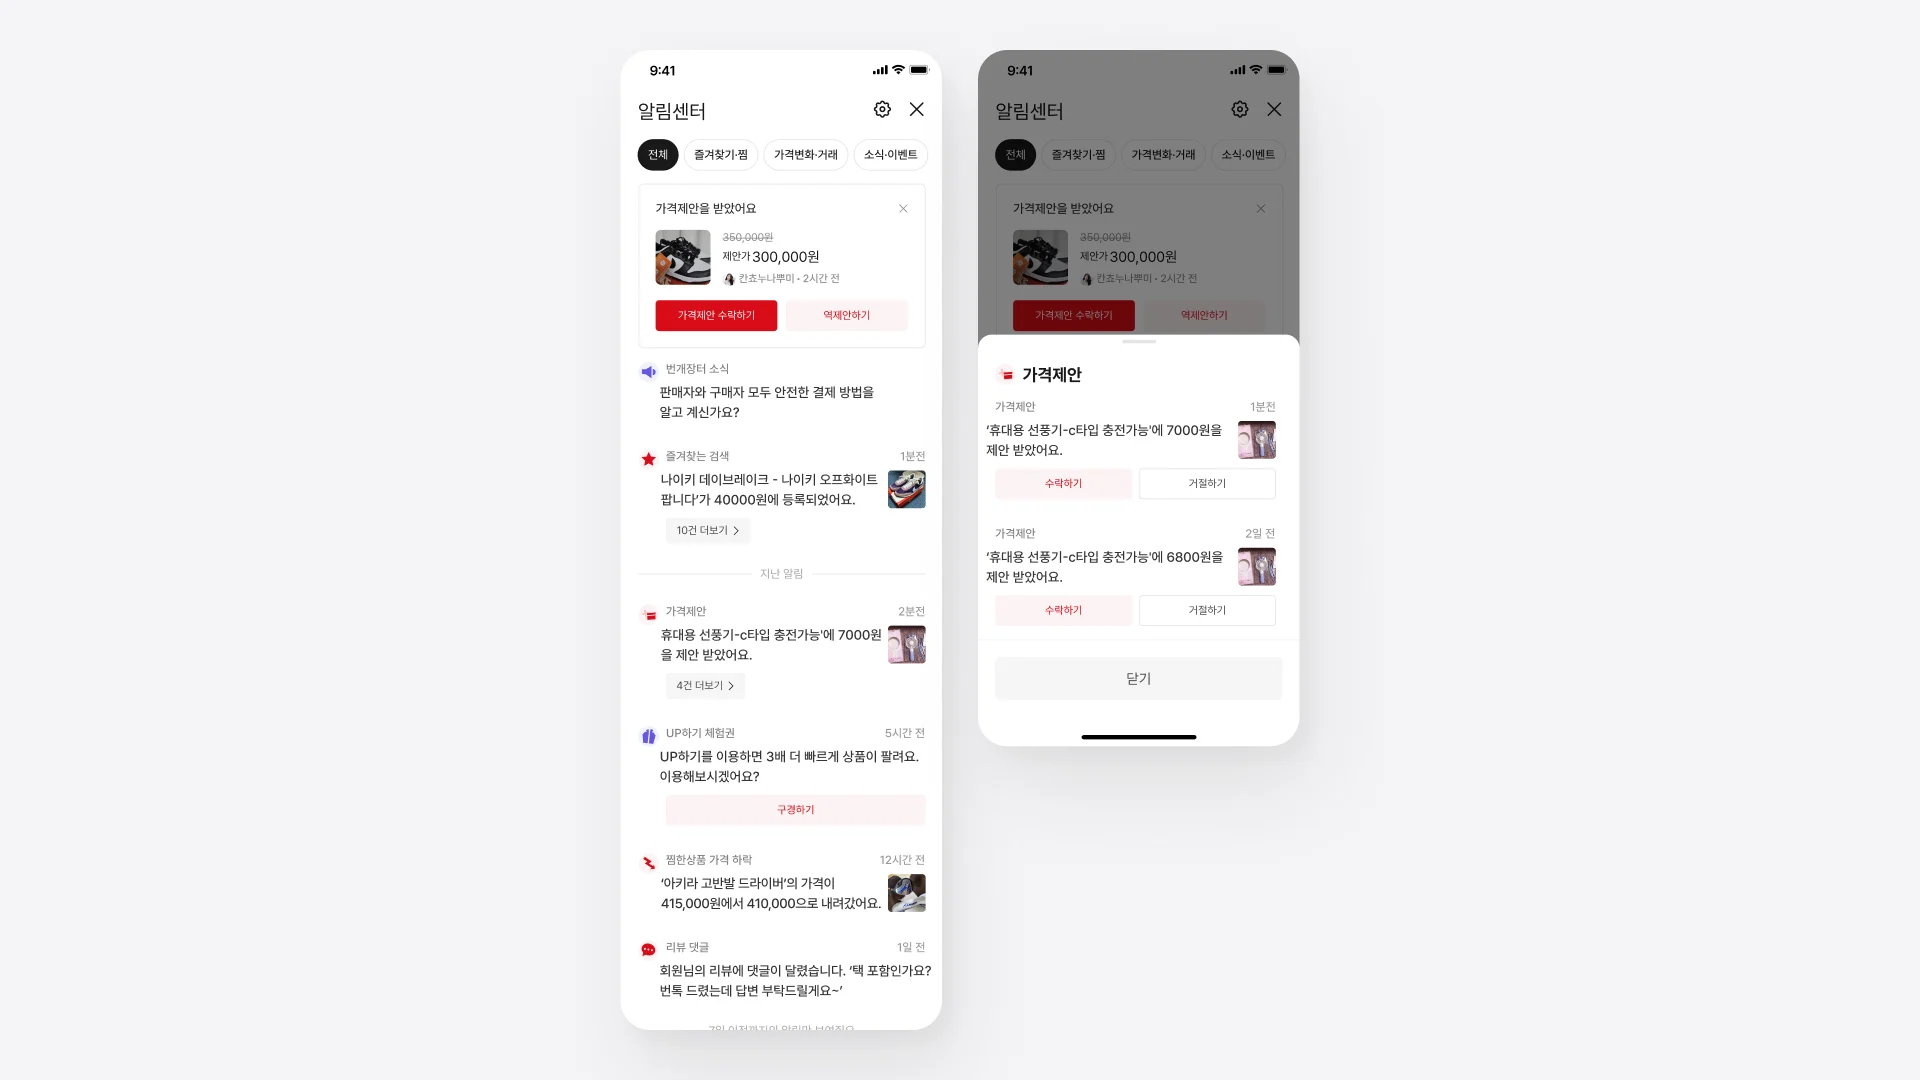
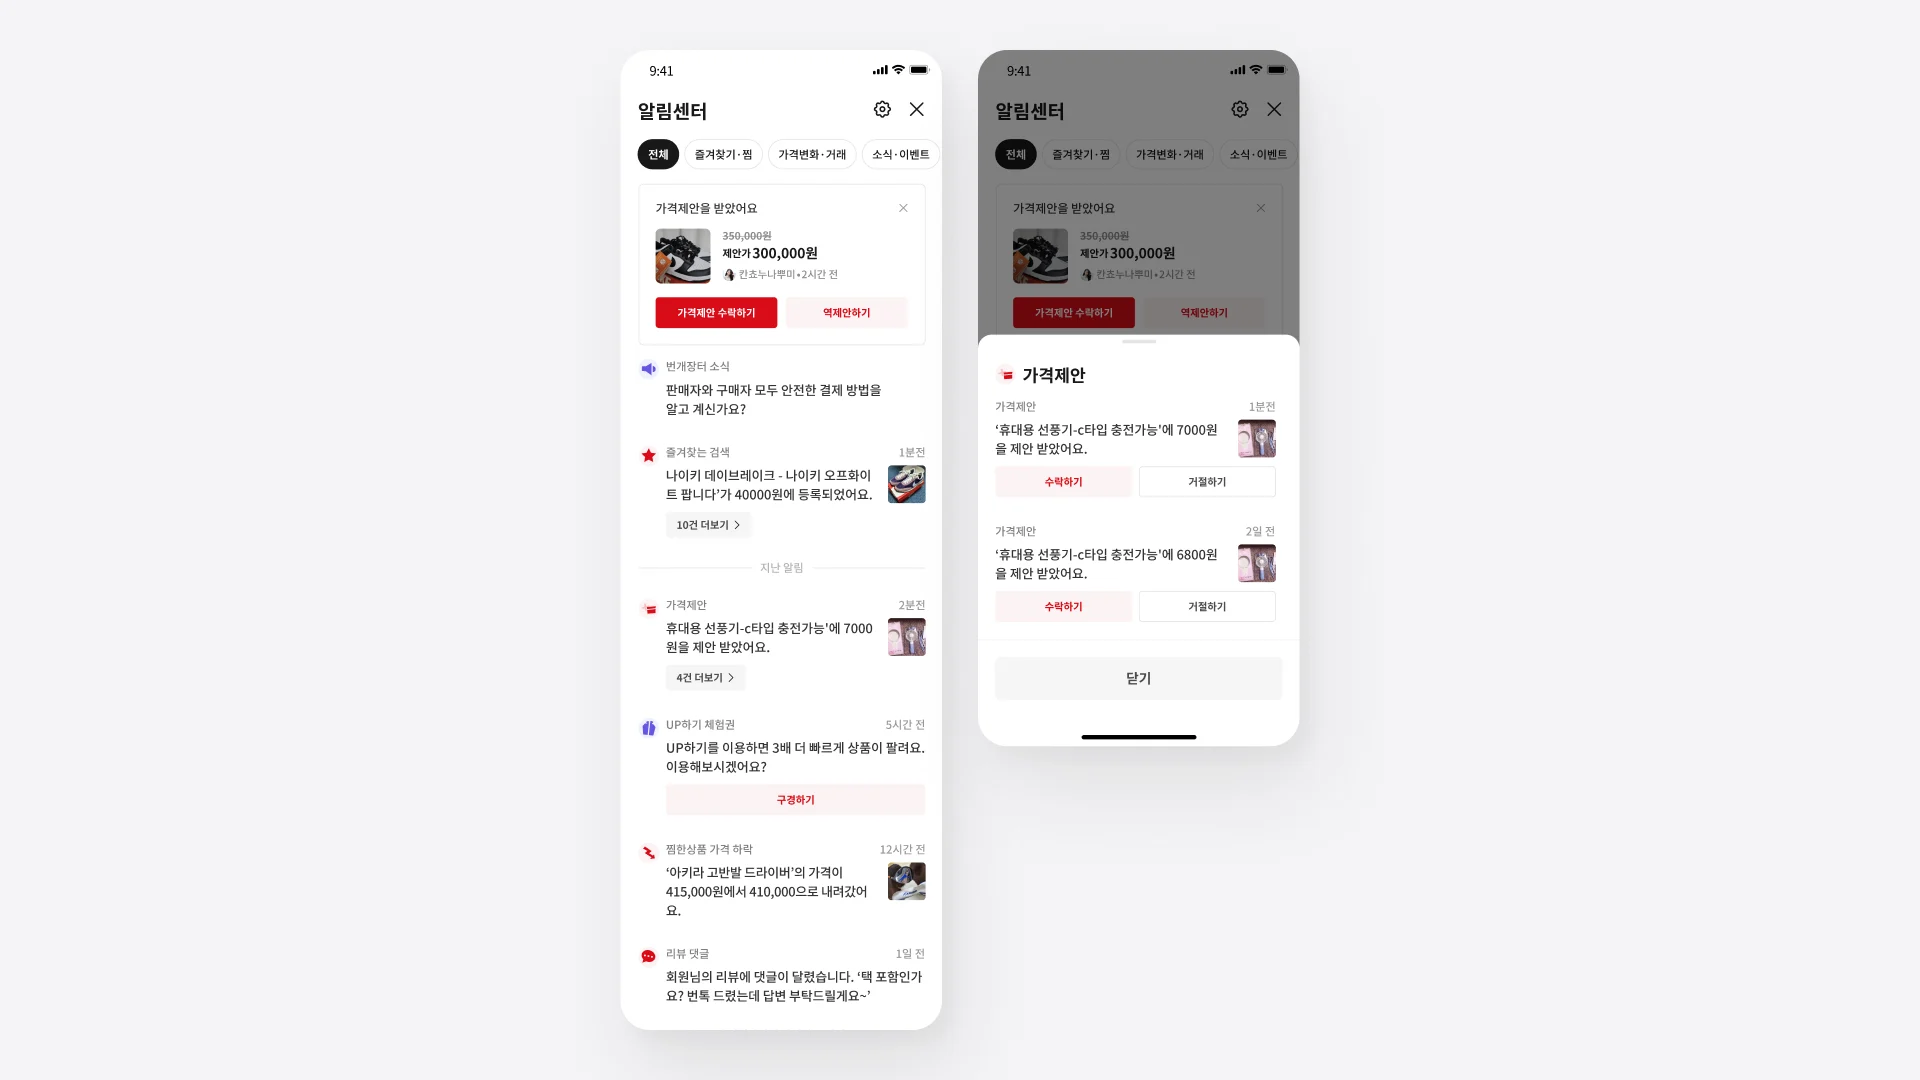
portfolio: 알림센터 이미지 폰트 깨짐 수정

diff --git a/portfolio/projects.html b/portfolio/projects.html
@@ -283,11 +283,11 @@
 <img width="1920" height="1080" decoding="async" loading="lazy" src="img/bunjang/ts_main.webp" alt="">
 <p class="plabel">05 NOTIFICATION CENTER</p>
 <div class="pcap"><p class="pt"><span class="muted">Notification Center · 1인, 기여도 100%</span><br>알림센터 개편 선행 디자인</p><p class="pb">즐겨찾는 검색 알림이 99+로 쌓이고, 같은 프로필의 같은 알림이 그대로 누적되었습니다. 그 사이에 답해야 하는 거래 알림이 묻혀 바로 행동하기 어려웠습니다.</p></div>
-<img width="1920" height="1080" decoding="async" loading="lazy" src="img/bunjang/nc_1.webp" alt="">
+<img width="1920" height="1080" decoding="async" loading="lazy" src="img/bunjang/nc_1.webp?v=2" alt="">
 <div class="pcap"><p class="pt"><span class="muted">Group &amp; Surface</span><br>묶고, 먼저 보이게</p><p class="pb">같은 유형의 반복 알림은 한 줄로 묶고 더보기로 펼치게 했습니다. 상단 칩으로 즐겨찾기, 가격변화, 소식을 나눴고, 답이 필요한 가격제안은 목록 위 배너로 올렸습니다.</p></div>
-<img width="1920" height="1080" decoding="async" loading="lazy" src="img/bunjang/nc_2.webp" alt="">
+<img width="1920" height="1080" decoding="async" loading="lazy" src="img/bunjang/nc_2.webp?v=2" alt="">
 <div class="pcap"><p class="pt"><span class="muted">Act in Place</span><br>알림에서 바로 거래로</p><p class="pb">배너에서 가격제안을 바로 수락하거나 거절할 수 있습니다. 여러 건이 쌓이면 바텀시트에서 한 번에 처리해 채팅방을 오가지 않아도 되게 했습니다. 실무진 6명의 리뷰로 방향을 확인했고, 선행 디자인으로 보존되었습니다.</p></div>
-<img width="1920" height="1080" decoding="async" loading="lazy" src="img/bunjang/nc_3.webp" alt="">
+<img width="1920" height="1080" decoding="async" loading="lazy" src="img/bunjang/nc_3.webp?v=2" alt="">
 </template>
 <template id="proj-zerotoone">
 <img width="2560" height="1440" decoding="async" fetchpriority="high" src="img/zerotoone/01.webp?v=3" alt="">
